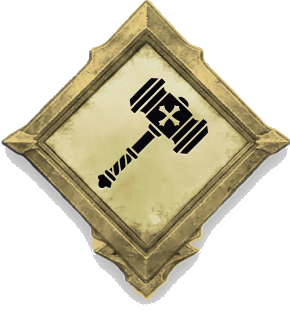
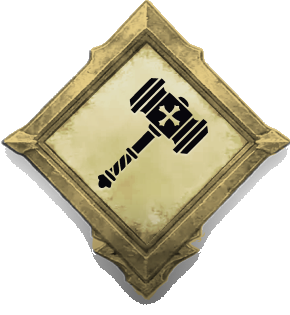
newui: roster card polish 3 -- frame -8px, darker badge bottoms, hover 1.40
- Frame inset 48 -> 40 (another 8px left).
- Bake a masked bottom-darkening gradient into the 13 class emblems (opaque
  diamond pixels only, 1.0 -> 0.50 over the lower ~38%) so each badge reads as
  lit from above; transparent corners untouched.
- Hover brightness 1.15 -> 1.40.

Changed region(s): [[0.2483, 0.6857, 0.7448, 0.9714]]

diff --git a/src/account-login.css b/src/account-login.css
@@ -262,7 +262,7 @@
   /* Frame inset from the left (anchored right) so it reaches just behind the
      diamond; the diamond + text keep their own positions (flex), so widening the
      frame leftward never shifts them. */
-  background: url('./classemblems/card-frame.svg') right center / calc(100% - 48px) 100% no-repeat;
+  background: url('./classemblems/card-frame.svg') right center / calc(100% - 40px) 100% no-repeat;
   border: 0;
   cursor: pointer;
   text-align: left;
@@ -272,7 +272,7 @@
 }
 .acc-card:hover {
   /* warm the gold frame + emblem on hover -- no dark plate, no halo */
-  filter: brightness(1.15);
+  filter: brightness(1.40);
 }
 .acc-card:active { transform: translateY(1px); }
 /* fallback letter sigil (a class-less row from an older engine) */
